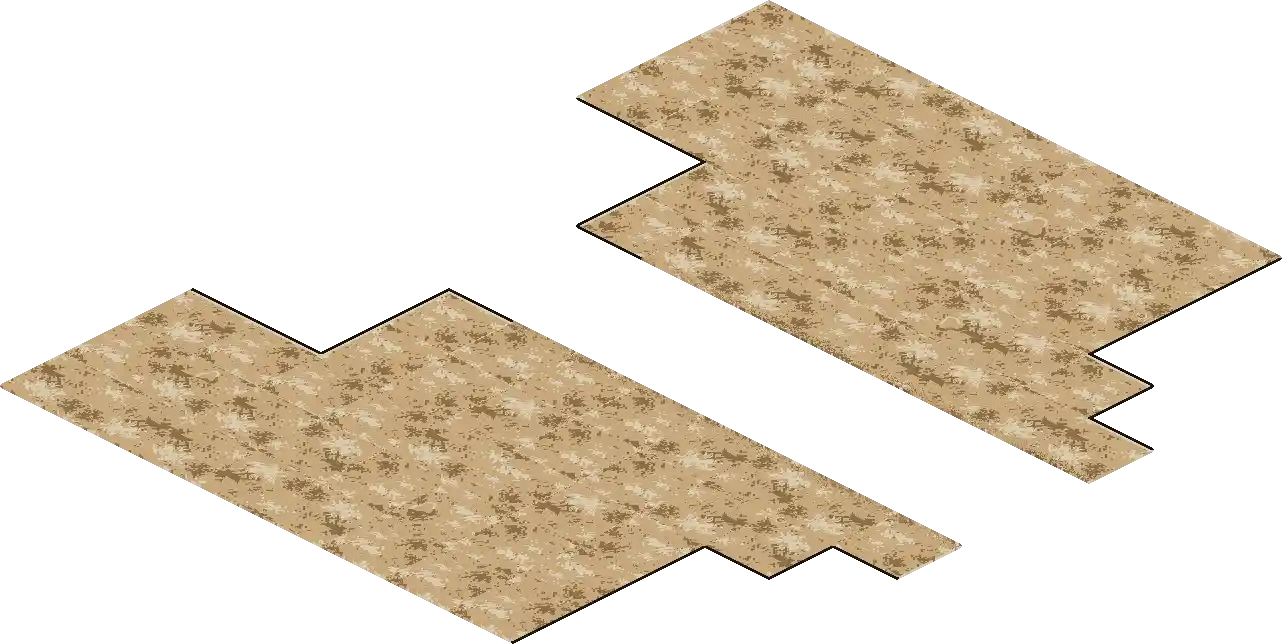
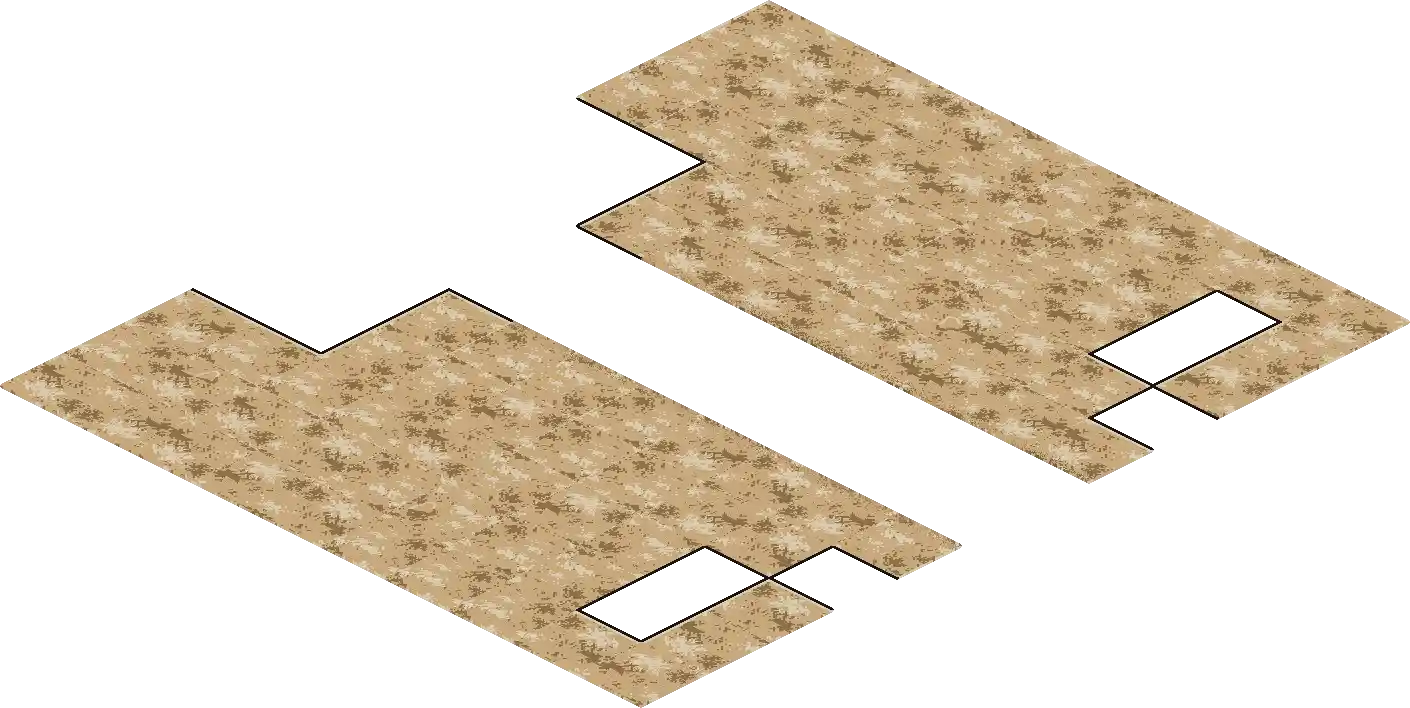
Repack the Quarry Gate ground plates and re-register them to the new rows
The X corners and G gates replaced ledge and open cells, so the modular
ground packer moves them from the limestone page into the spoil pages. The
region table follows the packer's new bounds and the byte pins follow the
new encodes; the road page is byte-identical.

Changed region(s): [[0.4056, 0.0, 1.0, 0.7453], [0.0, 0.4037, 0.7488, 1.0]]

diff --git a/src/content/scenes/quarryGate.ts b/src/content/scenes/quarryGate.ts
@@ -4,10 +4,10 @@ import { QUARRY_WEST_FRAMES } from './quarryWestFrames';
 
 const root = 'art/maps/quarry-gate-scene/';
 export const QUARRY_GATE_GROUND_REGIONS = [
-  { name: 'earth-west', x: 191, y: 94, width: 1218, height: 612 },
-  { name: 'earth-east', x: 639, y: 318, width: 1282, height: 644 },
+  { name: 'earth-west', x: -1, y: -2, width: 1410, height: 708 },
+  { name: 'earth-east', x: 639, y: 318, width: 1410, height: 708 },
   { name: 'road', x: 319, y: 158, width: 1410, height: 708 },
-  { name: 'limestone', x: -1, y: -2, width: 2050, height: 1028 },
+  { name: 'limestone', x: 191, y: 94, width: 1730, height: 868 },
 ] as const;
 export const QUARRY_GATE_COVER_CELLS: readonly Vec2[] = [
   { x: 13, y: 2 },

diff --git a/scripts/art/quarry-route-ground.test.ts b/scripts/art/quarry-route-ground.test.ts
@@ -382,10 +382,10 @@ it('ships the plates the packers build, inside the registered page', async () =>
  * budget, so its pins live here rather than as a `bytes` field on each region.
  */
 const QUARRY_GATE_GROUND_BYTES = [
-  { name: 'earth-west', bytes: 46_294 },
-  { name: 'earth-east', bytes: 46_054 },
+  { name: 'earth-west', bytes: 55_350 },
+  { name: 'earth-east', bytes: 51_038 },
   { name: 'road', bytes: 18_076 },
-  { name: 'limestone', bytes: 29_930 },
+  { name: 'limestone', bytes: 20_936 },
 ] as const;
 
 it('pins a size for every gate page', () => {
